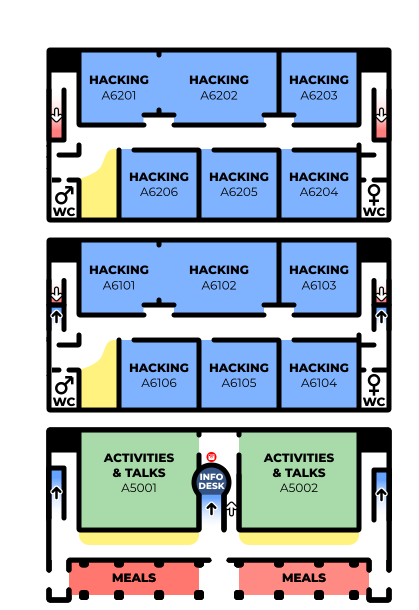
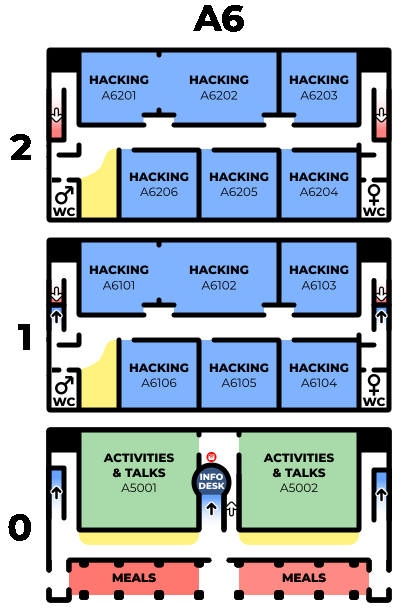
maps updated

diff --git a/src/index.html b/src/index.html
@@ -937,8 +937,10 @@
 			</div>
 		</article>
 		<article id="mapa" class="under-header padding-bottom">
-			<img style="text-align: center;" src="/assets/img/maps/indoors.png" alt="Indoors Map" id="map-indoors">
-			<img src="/assets/img/live/campus.svg" alt="Campus Map" id="map-campus" style="display: none;">
+			<div style="text-align: center;">
+				<img style="background-color: white; margin-right: 2%;" src="/assets/img/maps/campus.png" alt="Campus Map" id="map-campus">
+				<img style="background-color: white;" src="/assets/img/maps/indoors.png" alt="Indoors Map" id="map-indoors">	
+			</div>
 		</article>
 	</main>
 
